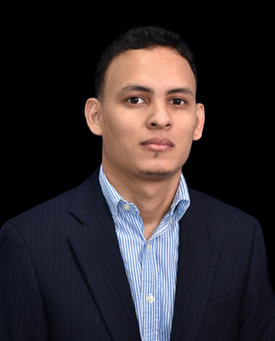
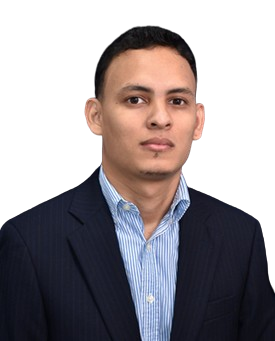
remove bg and unnecesary files

diff --git a/src/pages/About.tsx b/src/pages/About.tsx
@@ -15,9 +15,9 @@ const About = () => {
             auxiliar contable.
           </p>
           <p className="mb-4 font-light">
-            Disfruto conocer personas, trabajar en proyectos personales,
-            estudiar nuevas cosas, jugar videojuegos y pasar mis fines de semana
-            ensayando nuevas recetas de cocina.
+          Análista de datos, Sólida trayectoria de procesos administrativos y financieros.
+          Contador, Experiencia consolidada como contador y afines.
+          Director financiero, Con Enfoque a la gestión de costos.
           </p>
         </div>
       </div>

diff --git a/src/pages/Projects.tsx b/src/pages/Projects.tsx
@@ -45,7 +45,7 @@ const projects = [
 ];
 const Projects = () => {
   return (
-    <section id="projects" className="p-4">
+<section id="projects" className="pt-4 lg:pt-8"> {/* Ajusta el padding superior aquí */}
       <h1 className="text-2xl m-5 font-bold tracking-tight text-gray-300 sm:text-4xl text-center">
         Mis proyectos
       </h1>
@@ -56,7 +56,6 @@ const Projects = () => {
           </div>
         ))}
       </div>
-    </section>
-  );
+    </section>  );
 };
 export default Projects;

diff --git a/src/components/Nav.tsx b/src/components/Nav.tsx
@@ -15,7 +15,7 @@ const Nav = () => {
 
   return (
     <>
-      <nav className="top-0 left-0 w-full z-50 bg-gray-800">
+      <nav className="top-0 left-0 w-full z-50">
         <div className="px-4 sm:px-6 lg:px-8 w-full">
           <div className="relative flex h-16 items-center justify-between">
             {/* Mobile menu button */}
